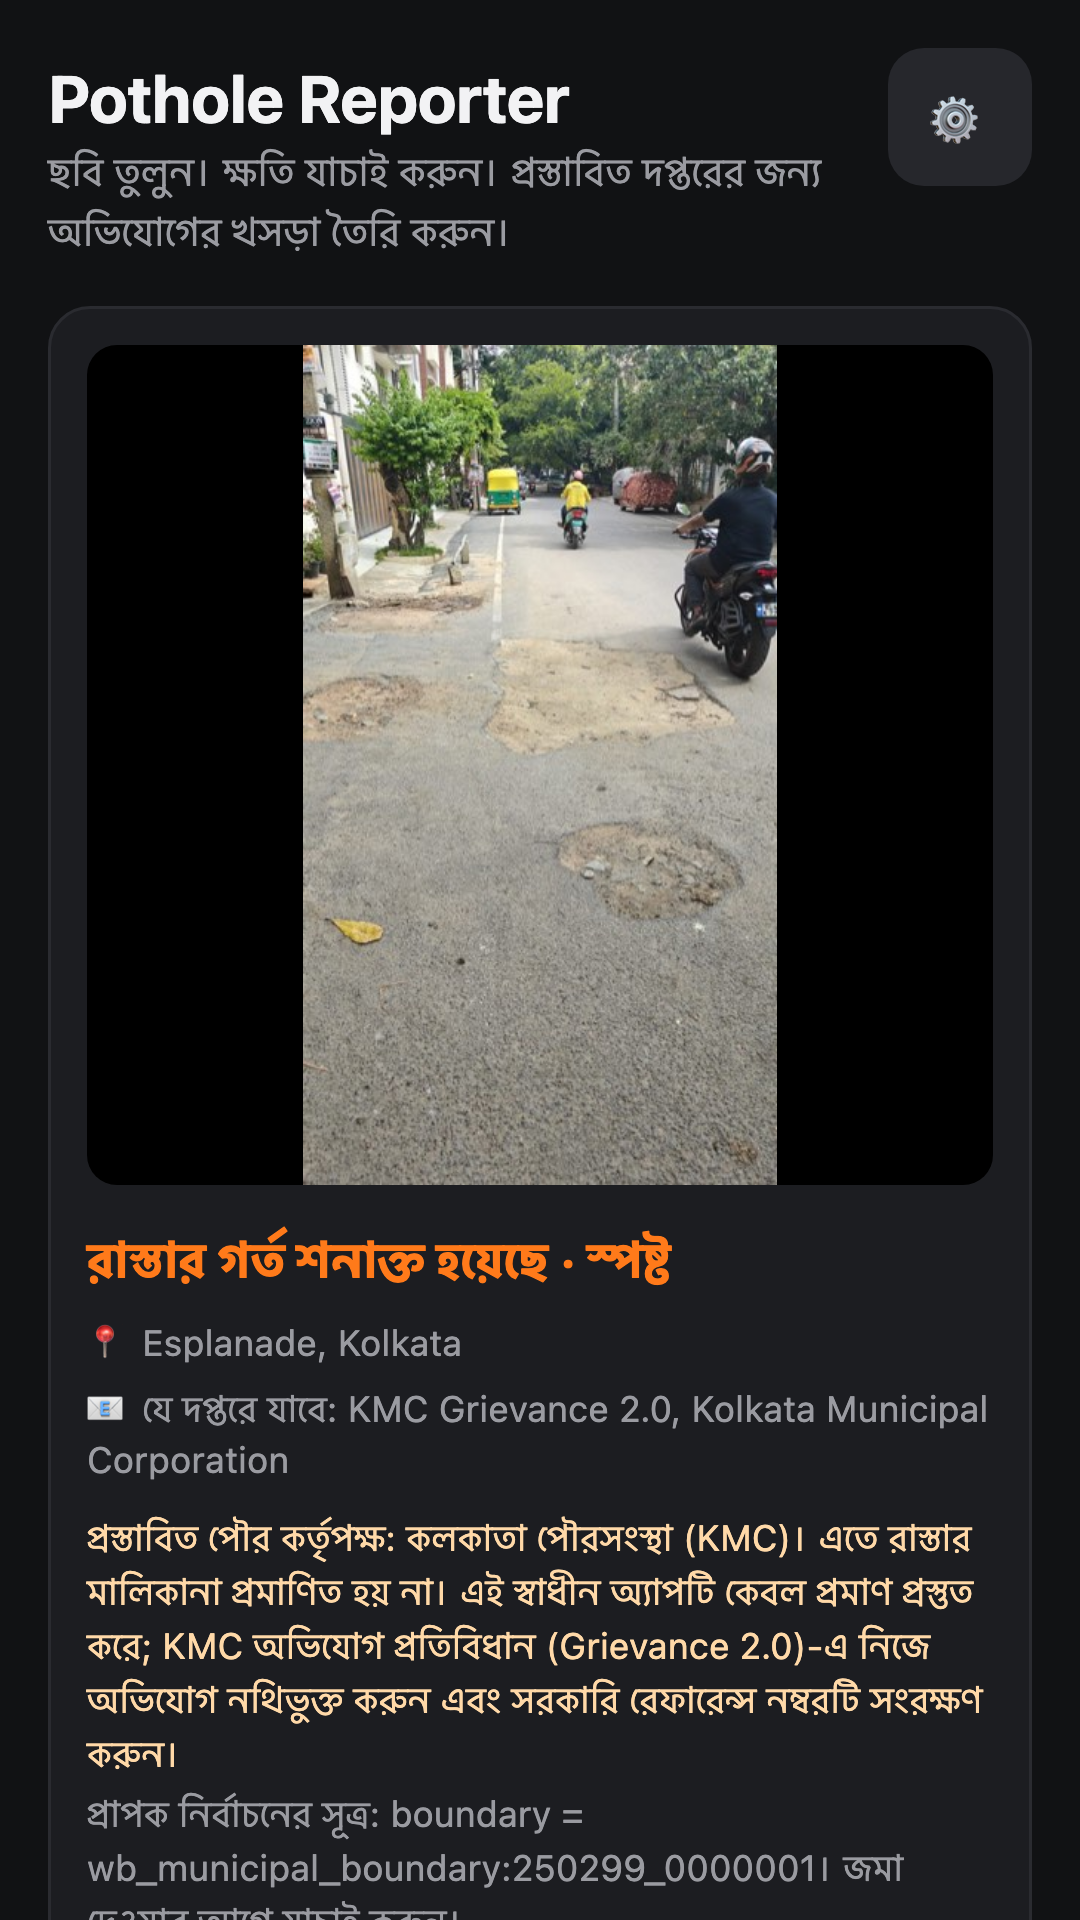
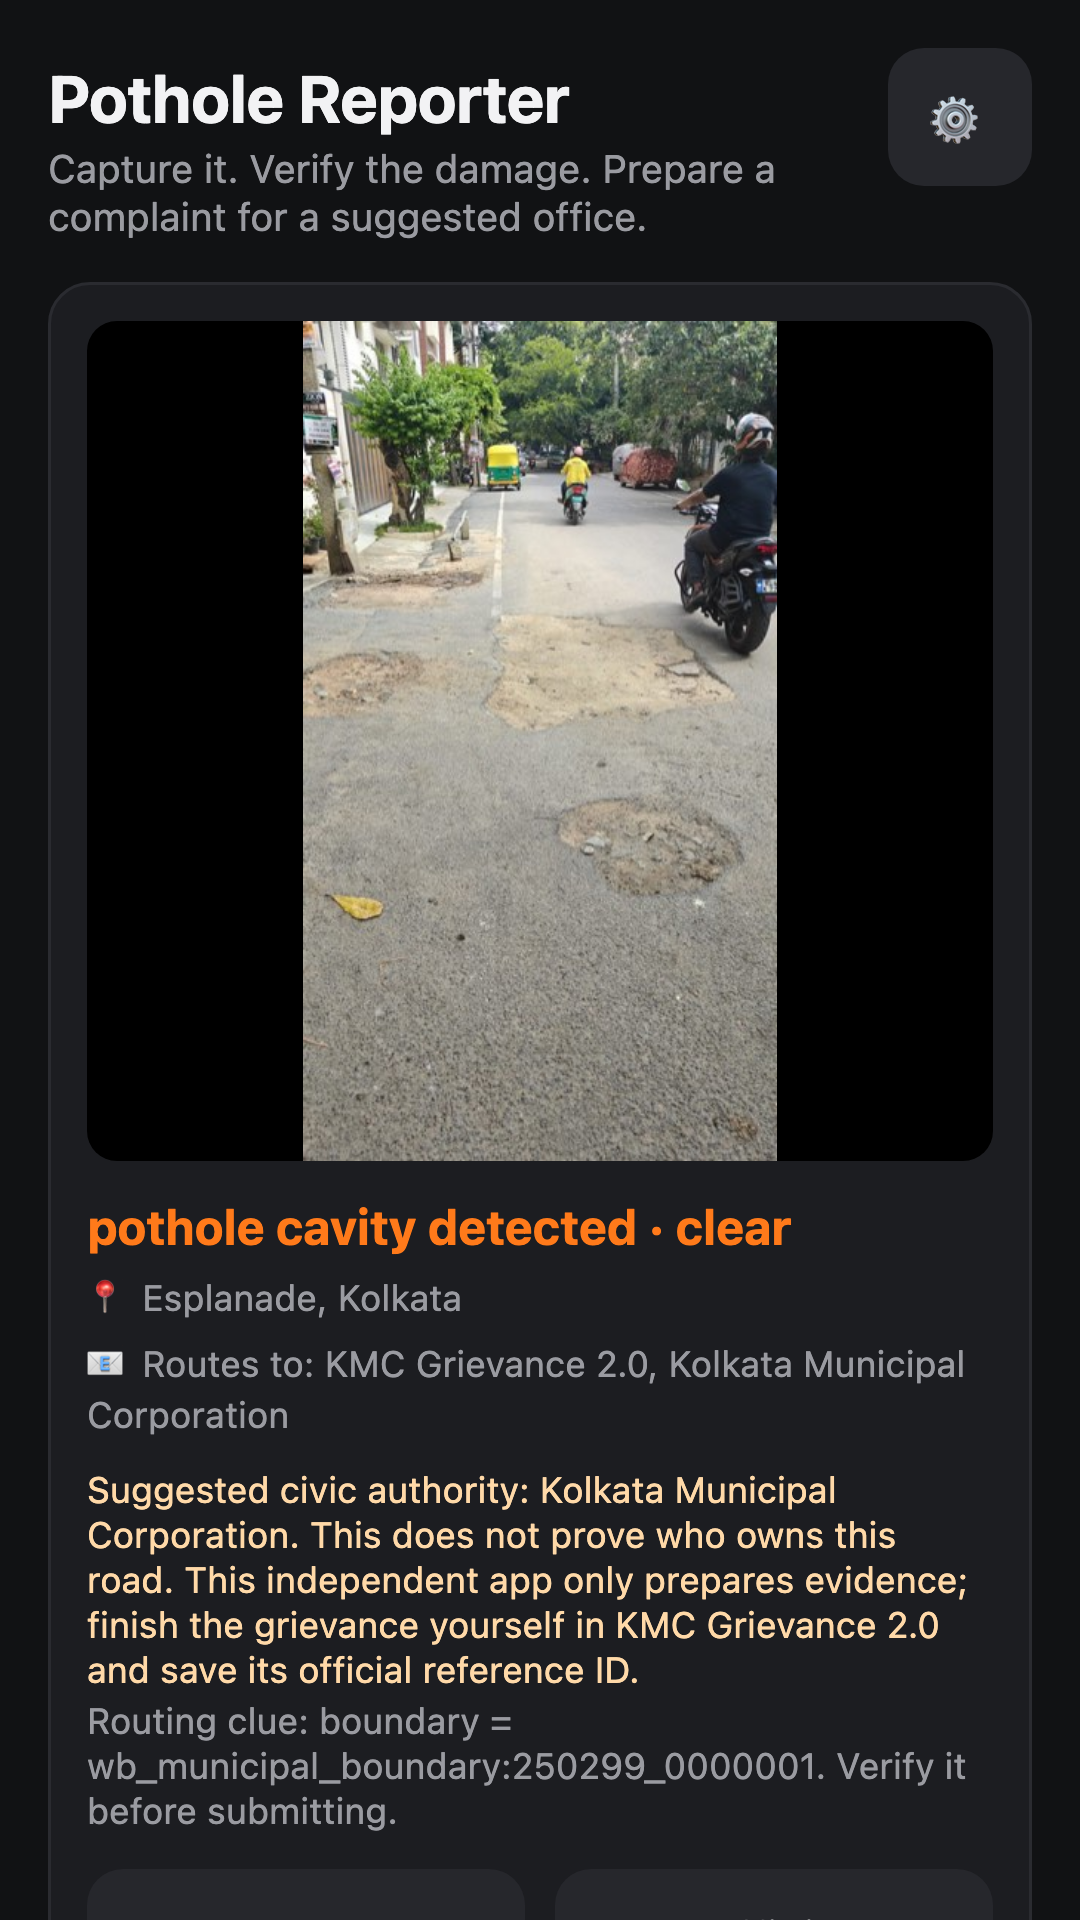
Refresh Play Store screenshots

Changed region(s): [[0.0611, 0.1562, 0.9167, 1.0], [0.0306, 0.0625, 0.7639, 0.125], [0.7944, 0.9688, 0.825, 1.0]]

diff --git a/tools/capture-store-screenshots.py b/tools/capture-store-screenshots.py
@@ -1,5 +1,9 @@
 #!/usr/bin/env python3
-"""Capture genuine, deterministic Play Store screenshots from the local client."""
+"""Capture deterministic Play Store screenshots from the local web client.
+
+The privacy-disclosure screenshot is captured from the native Android app so
+this script intentionally leaves ``04-privacy-disclosure.png`` untouched.
+"""
 
 from __future__ import annotations
 
@@ -40,7 +44,7 @@ def main() -> None:
                 """
                 localStorage.setItem('openai_key', 'store-preview-key');
                 localStorage.setItem('sender_name', 'Road volunteer');
-                localStorage.setItem('data_notice_version', '2026-08-21-v6-state-packs');
+                localStorage.setItem('data_notice_version', '2026-08-23-v10-play-background-disclosure');
                 localStorage.setItem('record_video', '0');
                 """
             )
@@ -107,9 +111,6 @@ def main() -> None:
             page.wait_for_timeout(100)
             page.screenshot(path=OUT / "01-home-and-history.png")
 
-            page.evaluate("localStorage.setItem('app_lang', 'bn')")
-            page.reload(wait_until="networkidle")
-            page.wait_for_function("document.documentElement.lang === 'bn'")
             page.locator("[data-id]").first.click()
             page.evaluate("window.scrollTo(0, 0)")
             page.screenshot(path=OUT / "02-detection-detail.png")
@@ -125,14 +126,17 @@ def main() -> None:
             page.locator(".leaflet-control-attribution").wait_for(state="visible")
             page.screenshot(path=OUT / "03-contribution-dashboard.png")
 
-            page.evaluate("show('dataConsent'); window.scrollTo(0, 0)")
-            page.screenshot(path=OUT / "04-privacy-disclosure.png")
             browser.close()
     finally:
         server.terminate()
         server.wait(timeout=5)
 
-    for path in sorted(OUT.glob("*.png")):
+    for name in (
+        "01-home-and-history.png",
+        "02-detection-detail.png",
+        "03-contribution-dashboard.png",
+    ):
+        path = OUT / name
         print(path.relative_to(ROOT))
 
 
